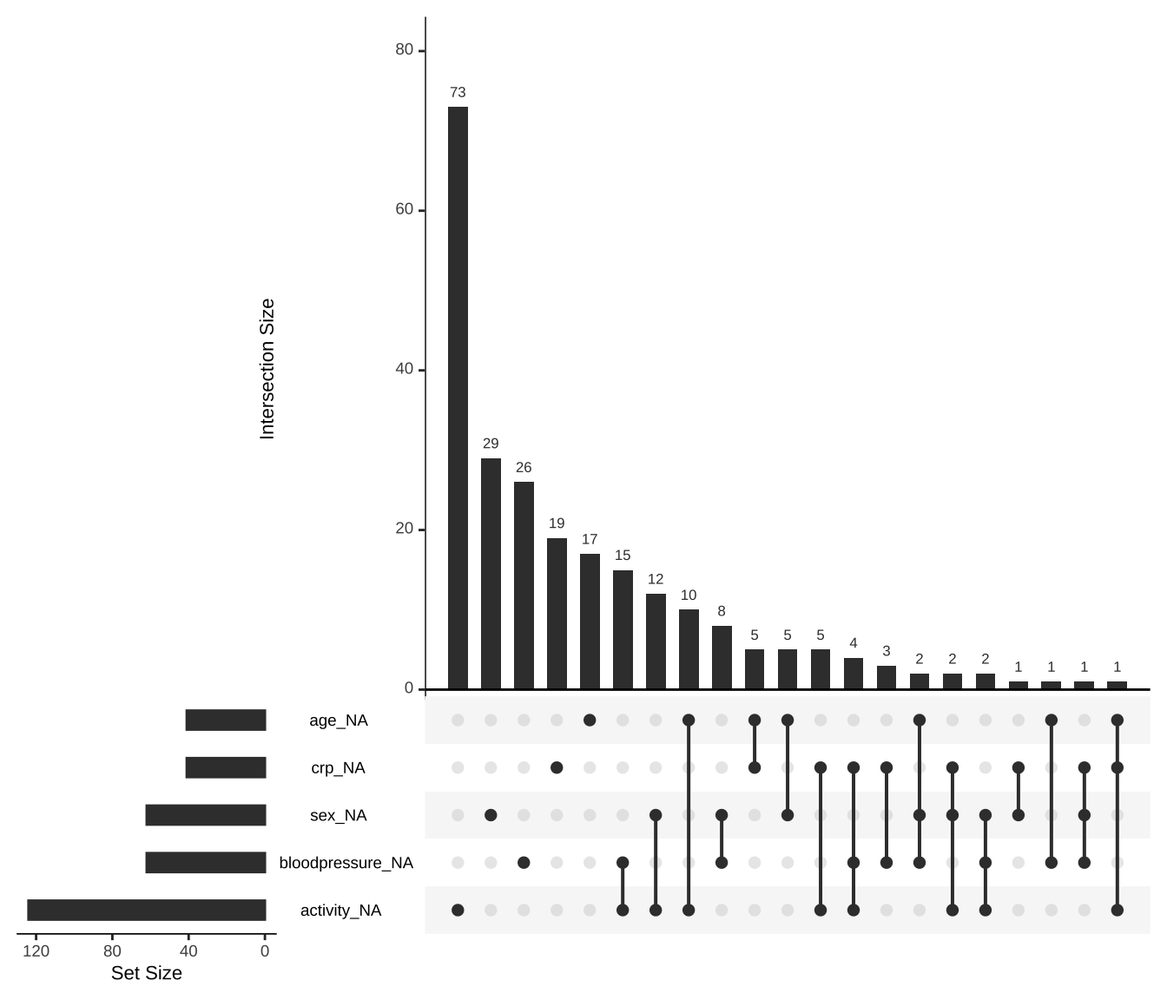
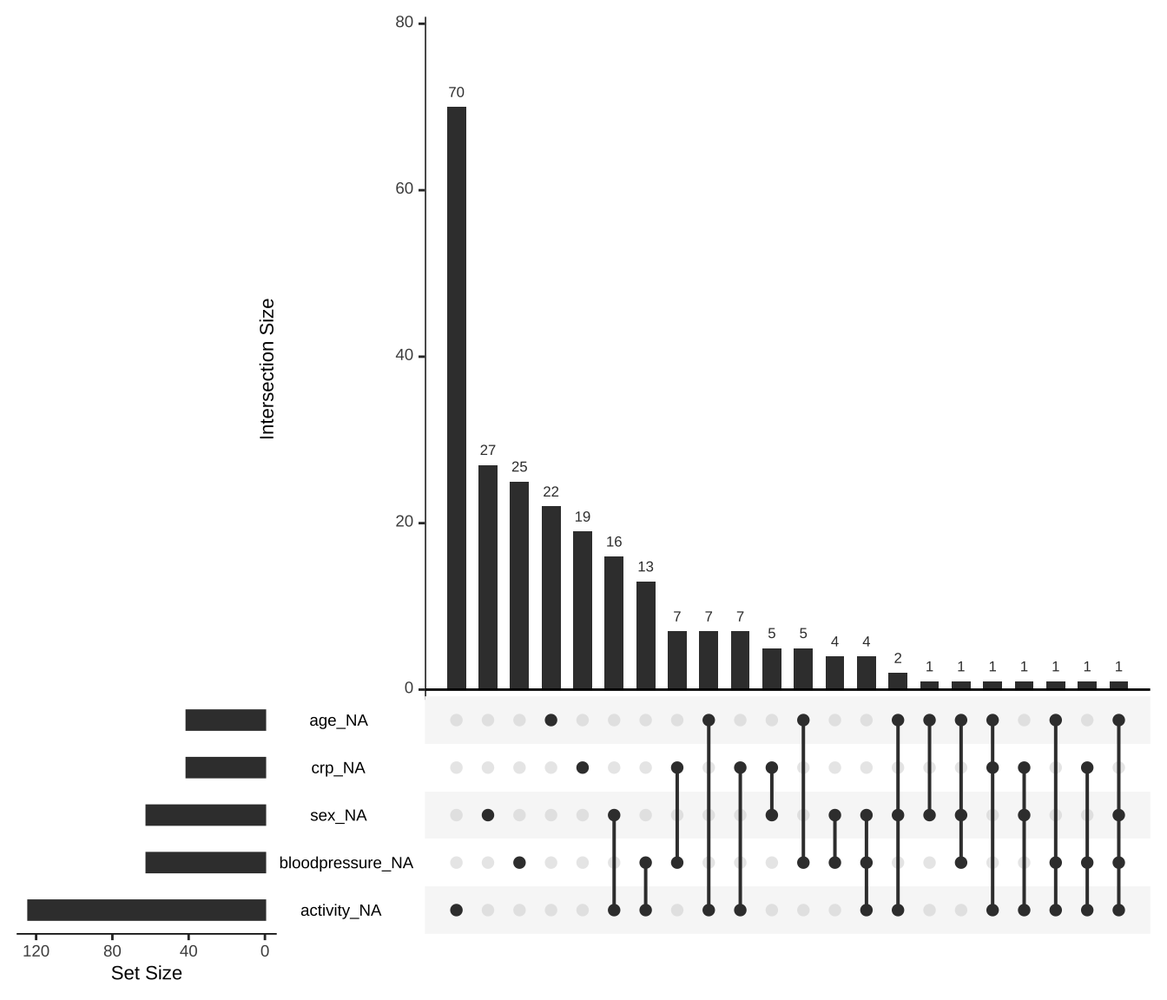
finished mice

diff --git a/docs/stat-modeling-missing.html b/docs/stat-modeling-missing.html
@@ -502,11 +502,11 @@ code span.wa { color: #60a0b0; font-weight: bold; font-style: italic; } /* Warni
   <li>
 <a href="#multivariate-imputation" id="toc-multivariate-imputation" class="nav-link" data-scroll-target="#multivariate-imputation"> <span class="header-section-number">37.7</span> Multivariate Imputation</a>
   <ul class="collapse">
-<li><a href="#imputation-mit-mice" id="toc-imputation-mit-mice" class="nav-link" data-scroll-target="#imputation-mit-mice"> <span class="header-section-number">37.7.1</span> Imputation mit <code>mice</code></a></li>
+<li><a href="#sec-mice" id="toc-sec-mice" class="nav-link" data-scroll-target="#sec-mice"> <span class="header-section-number">37.7.1</span> Imputation mit <code>mice</code></a></li>
+  <li><a href="#sec-missRanger" id="toc-sec-missRanger" class="nav-link" data-scroll-target="#sec-missRanger"> <span class="header-section-number">37.7.2</span> Imputation mit <code>missRanger</code></a></li>
   </ul>
 </li>
-  <li><a href="#imputation-mit-missranger" id="toc-imputation-mit-missranger" class="nav-link" data-scroll-target="#imputation-mit-missranger"> <span class="header-section-number">37.8</span> Imputation mit <code>missRanger</code></a></li>
-  <li><a href="#sensitivit%C3%A4tsanalysen" id="toc-sensitivitätsanalysen" class="nav-link" data-scroll-target="#sensitivit%C3%A4tsanalysen"> <span class="header-section-number">37.9</span> Sensitivitätsanalysen</a></li>
+  <li><a href="#sensitivit%C3%A4tsanalysen" id="toc-sensitivitätsanalysen" class="nav-link" data-scroll-target="#sensitivit%C3%A4tsanalysen"> <span class="header-section-number">37.8</span> Sensitivitätsanalysen</a></li>
   </ul></nav>
     </div>
 <!-- main -->
@@ -526,7 +526,7 @@ code span.wa { color: #60a0b0; font-weight: bold; font-style: italic; } /* Warni
 </header><div class="cell">
 
 </div>
-<p><em>Version vom October 30, 2022 um 18:02:52</em></p>
+<p><em>Version vom October 30, 2022 um 19:13:19</em></p>
 <div class="quarto-figure quarto-figure-center">
 <figure class="figure"><p><img src="images/caution.png" class="img-fluid figure-img" style="width:50.0%"></p>
 </figure>
@@ -556,7 +556,7 @@ code span.wa { color: #60a0b0; font-weight: bold; font-style: italic; } /* Warni
 <div class="cell">
 <div class="sourceCode" id="cb1"><pre class="downlit sourceCode r code-with-copy"><code class="sourceCode R"><span><span class="fu">pacman</span><span class="fu">::</span><span class="fu"><a href="https://rdrr.io/pkg/pacman/man/p_load.html">p_load</a></span><span class="op">(</span><span class="va">tidyverse</span>, <span class="va">magrittr</span>, <span class="va">see</span>, <span class="va">readxl</span>,</span>
 <span>               <span class="va">mice</span>, <span class="va">naniar</span>, <span class="va">missForest</span>, <span class="va">missRanger</span>,</span>
-<span>               <span class="va">dlookr</span><span class="op">)</span></span></code><button title="In die Zwischenablage kopieren" class="code-copy-button"><i class="bi"></i></button></pre></div>
+<span>               <span class="va">dlookr</span>, <span class="va">parameters</span><span class="op">)</span></span></code><button title="In die Zwischenablage kopieren" class="code-copy-button"><i class="bi"></i></button></pre></div>
 </div>
 <p>Am Ende des Kapitels findest du nochmal den gesamten R Code in einem Rutsch zum selber durchführen oder aber kopieren.</p>
 </section><section id="daten" class="level2" data-number="37.4"><h2 data-number="37.4" class="anchored" data-anchor-id="daten">
@@ -712,9 +712,16 @@ code span.wa { color: #60a0b0; font-weight: bold; font-style: italic; } /* Warni
 <p>Wir wir in der Abbildung erkennen können, funktioniert die Methode ganz gut. Wir erhalten aber sehr viel mehr Werte auf die Schwerpunkte der Verteilung. Daher kriegen wir eine sehr viel stärkere bimodale Verteilung heraus als wir vorher hatten. Insbesondere der Modus zeigt hier eine sehr verzerrte Imputation. Ob eine bimodale Verteilung so beim Alter passt ist schwer zu sagen. Bei der Körpergröße wäre es richtiger. Daher ist eine univariate Imputation immer mit Vorsicht zu genießen.</p>
 </section><section id="multivariate-imputation" class="level2" data-number="37.7"><h2 data-number="37.7" class="anchored" data-anchor-id="multivariate-imputation">
 <span class="header-section-number">37.7</span> Multivariate Imputation</h2>
-<section id="imputation-mit-mice" class="level3" data-number="37.7.1"><h3 data-number="37.7.1" class="anchored" data-anchor-id="imputation-mit-mice">
+<p>Im Folgenden schauen wir uns zwei multivariate Verfahren an um fehlende Werte zu imputieren. In beiden Fällen entbindet uns, dass <em>multivariat</em> nicht davon nochmal zu schauen, ob unsere Daten einigermaßen konsistent imputiert wurden. Beide Verfahren haben ihre Vor und Nachteile.</p>
+<ul>
+<li>Zum einen nutzen wir das R Paket <code>mice</code> in <a href="#sec-mice"><span>Kapitel&nbsp;37.7.1</span></a>. Wir müssen in <code>mice</code> für jede Spalte angeben, welcher Verteilung die Spalte folgt bzw. mit welche fortgeschrittenen Methode die Spalte imputiert werden soll. Die Imputation findet dann <span class="math inline">\(m\)</span>-Mal über alle Variablen statt. Danach können wir dann die <span class="math inline">\(m\)</span>-mal imputierten Datensätze weiter benutzen.</li>
+<li>Wir nutzen als Alternative noch das R Paket <code>missRanger()</code> in <a href="#sec-missRanger"><span>Kapitel&nbsp;37.7.2</span></a>. Wir müssen in dem R Paket <code>missRanger</code> nicht angeben welcher Verteilung die Spalten folgen. Daher ist <code>missRanger</code> etwas einfacher zu bedienen, aber auf der anderen Seite auch mehr eine Blackbox. Wir stecken Daten rein und erhalten <em>einen</em> imputierte Daten wieder. Das mag vielleicht auch ein Vorteil sein.</li>
+</ul>
+<p>Beide Verfahren liefern uns dann die imputierten Datensätze wieder und wir müssen dann in den entsprechenden Visualisierungen schauen, ob wir so mit der Imputation zufrieden sind.</p>
+<section id="sec-mice" class="level3" data-number="37.7.1"><h3 data-number="37.7.1" class="anchored" data-anchor-id="sec-mice">
 <span class="header-section-number">37.7.1</span> Imputation mit <code>mice</code>
 </h3>
+<p>Beginnen wir also mit der Imputation unter der Verwendung von dem R Paket <code>mice</code>. Die Funktion, die die Imputation durchführt heist ebenfalls <code>mice()</code> was für <em>Multivariate Imputation by Chained Equations</em> steht. Wir nutzen aber nur die Abkürzung <code>mice()</code>. Bei der Nutzung von <code>mice</code> durchlaufen wir mehrere Schritte. Zuerst müssen wir der Funktion mitteilen, welche Eigenschaften die zu imputierenden Spalten haben. Auch hier gilt, die Hilfeseite von <code>?mice()</code> hilft bei der Entscheidung welche Variante für die jeweilige Spalte in den Daten passt. Wenn wir eine Spalte gar nicht imputieren wollen, dann lassen wir den Eintrag in dem benamten Vektor einfach leer. Im Folgenden der benamte Vektor mit den Variablennamen und wie die einzelnen Variablen dann imputiert werden sollen.</p>
 <div class="cell">
 <div class="sourceCode" id="cb7"><pre class="downlit sourceCode r code-with-copy"><code class="sourceCode R"><span><span class="va">imp_method</span> <span class="op">&lt;-</span> <span class="fu"><a href="https://rdrr.io/r/base/c.html">c</a></span><span class="op">(</span>gender <span class="op">=</span> <span class="st">"logreg"</span>, </span>
 <span>                age <span class="op">=</span> <span class="st">"pmm"</span>, </span>
@@ -722,9 +729,11 @@ code span.wa { color: #60a0b0; font-weight: bold; font-style: italic; } /* Warni
 <span>                semester <span class="op">=</span> <span class="st">"pmm"</span>, </span>
 <span>                count_bears <span class="op">=</span> <span class="st">""</span>, </span>
 <span>                count_color <span class="op">=</span> <span class="st">"polyreg"</span>, </span>
-<span>                most_liked <span class="op">=</span> <span class="st">"polyreg"</span><span class="op">)</span></span>
-<span></span>
-<span><span class="va">imp_gummi_tbl</span> <span class="op">&lt;-</span> <span class="fu">mice</span><span class="op">(</span>data <span class="op">=</span> <span class="va">gummi_tbl</span>, m <span class="op">=</span> <span class="fl">3</span>, maxit <span class="op">=</span> <span class="fl">5</span>, </span>
+<span>                most_liked <span class="op">=</span> <span class="st">"polyreg"</span><span class="op">)</span></span></code><button title="In die Zwischenablage kopieren" class="code-copy-button"><i class="bi"></i></button></pre></div>
+</div>
+<p>Den Vektor <code>imp_method</code> nutzen wir jetzt in der Funktion <code>mice()</code> für die Option <code>method = imp_method</code>. Nun weis <code>mice()</code> wie die Daten für jede Spalte über alle anderen Spalten imputiert werden soll. Wichtig ist noch anzugeben, wie viele <span class="math inline">\(m\)</span> imputierte Datensätze erschaffen werden sollen. Wir nehmen hier mal <span class="math inline">\(m = 5\)</span> und wiederholen den Prozess nur <span class="math inline">\(maxit = 3\)</span> Mal. Je höher <code>maxit</code> ist, desto genauer wird <code>mice()</code> aber desto mehr Iterationen müssen gerechnet werden. Jede Iteration dauert auch so seine Zeit.</p>
+<div class="cell">
+<div class="sourceCode" id="cb8"><pre class="downlit sourceCode r code-with-copy"><code class="sourceCode R"><span><span class="va">imp_gummi_tbl</span> <span class="op">&lt;-</span> <span class="fu">mice</span><span class="op">(</span>data <span class="op">=</span> <span class="va">gummi_tbl</span>, m <span class="op">=</span> <span class="fl">5</span>, maxit <span class="op">=</span> <span class="fl">3</span>, </span>
 <span>                      method <span class="op">=</span> <span class="va">imp_method</span><span class="op">)</span></span></code><button title="In die Zwischenablage kopieren" class="code-copy-button"><i class="bi"></i></button></pre></div>
 <div class="cell-output cell-output-stdout">
 <pre><code>
@@ -732,49 +741,93 @@ code span.wa { color: #60a0b0; font-weight: bold; font-style: italic; } /* Warni
   1   1  gender  age  height  semester  count_color  most_liked
   1   2  gender  age  height  semester  count_color  most_liked
   1   3  gender  age  height  semester  count_color  most_liked
+  1   4  gender  age  height  semester  count_color  most_liked
+  1   5  gender  age  height  semester  count_color  most_liked
   2   1  gender  age  height  semester  count_color  most_liked
   2   2  gender  age  height  semester  count_color  most_liked
   2   3  gender  age  height  semester  count_color  most_liked
+  2   4  gender  age  height  semester  count_color  most_liked
+  2   5  gender  age  height  semester  count_color  most_liked
   3   1  gender  age  height  semester  count_color  most_liked
   3   2  gender  age  height  semester  count_color  most_liked
   3   3  gender  age  height  semester  count_color  most_liked
-  4   1  gender  age  height  semester  count_color  most_liked
-  4   2  gender  age  height  semester  count_color  most_liked
-  4   3  gender  age  height  semester  count_color  most_liked
-  5   1  gender  age  height  semester  count_color  most_liked
-  5   2  gender  age  height  semester  count_color  most_liked
-  5   3  gender  age  height  semester  count_color  most_liked</code></pre>
+  3   4  gender  age  height  semester  count_color  most_liked
+  3   5  gender  age  height  semester  count_color  most_liked</code></pre>
 </div>
 </div>
-<div class="cell">
-<div class="sourceCode" id="cb9"><pre class="downlit sourceCode r code-with-copy"><code class="sourceCode R"><span><span class="fu">complete</span><span class="op">(</span><span class="va">imp_gummi_tbl</span><span class="op">)</span> <span class="op">%&gt;%</span> <span class="fu">vis_miss</span><span class="op">(</span><span class="op">)</span></span></code><button title="In die Zwischenablage kopieren" class="code-copy-button"><i class="bi"></i></button></pre></div>
+<p>Schauen wir jetzt einmal nach, ob auch die Imputation geklappt hat. In <a href="#fig-mice-vismiss">Abbildung&nbsp;<span>37.4</span></a> sehen wir nochmal die Daten visualisiert und sehen, dass es keinen fehlenden Werte mehr gibt. Die Überprüfung ist sinnvoll, da wir manchmal Spalten nicht imputieren wollen und dann müssen wir schauen, ob auch das so geklappt hat.</p>
+<div class="cell" data-layout-align="center">
+<div class="sourceCode" id="cb10"><pre class="downlit sourceCode r code-with-copy"><code class="sourceCode R"><span><span class="fu">complete</span><span class="op">(</span><span class="va">imp_gummi_tbl</span><span class="op">)</span> <span class="op">%&gt;%</span> <span class="fu">vis_miss</span><span class="op">(</span><span class="op">)</span></span></code><button title="In die Zwischenablage kopieren" class="code-copy-button"><i class="bi"></i></button></pre></div>
 <div class="cell-output-display">
-<p><img src="stat-modeling-missing_files/figure-html/unnamed-chunk-11-1.png" class="img-fluid" width="672"></p>
+<div id="fig-mice-vismiss" class="quarto-figure quarto-figure-center anchored">
+<figure class="figure"><p><img src="stat-modeling-missing_files/figure-html/fig-mice-vismiss-1.png" class="img-fluid figure-img" width="480"></p>
+<p></p><figcaption aria-hidden="true" class="figure-caption">Abbildung 37.4— Überprüfung der Imputation mit <code>mice()</code>. Wie erhofft gibt es keine fehlenden Werte mehr in den Daten.</figcaption><p></p>
+</figure>
 </div>
 </div>
-<div class="cell">
-<div class="sourceCode" id="cb10"><pre class="downlit sourceCode r code-with-copy"><code class="sourceCode R"><span><span class="va">imp_all_gummi_tbl</span> <span class="op">&lt;-</span> <span class="va">imp_gummi_tbl</span> <span class="op">%&gt;%</span> </span>
-<span>  <span class="fu">complete</span><span class="op">(</span><span class="st">"long"</span>, include <span class="op">=</span> <span class="cn">TRUE</span><span class="op">)</span> <span class="op">%&gt;%</span> </span>
-<span>  <span class="fu">select</span><span class="op">(</span><span class="op">-</span><span class="va">.id</span>, imp_run <span class="op">=</span> <span class="va">.imp</span><span class="op">)</span> </span></code><button title="In die Zwischenablage kopieren" class="code-copy-button"><i class="bi"></i></button></pre></div>
 </div>
-<div class="cell">
+<p>Nachdem wir mit der Imputation durch sind können wir uns für die kontinuierlichen Variablen einmal die ursprüngliche Verteilung der Daten <em>mit</em> den fehlenden Weren im vergleich zu den <span class="math inline">\(m=5\)</span> imputierten Verteilungen anschauen. Die Funktion <code>densityplot()</code> erlaubt hier eine einfache und schnelle Darstellung in <a href="#fig-mice-dens">Abbildung&nbsp;<span>37.5</span></a>. Wir sehen, dass die Imputation nicht immer sehr gut geklappt hat, aber dadurch das wir die Imputation fünfmal gemacht haben, mittelt sich der Effekt einer einzelen Imputation wieder raus.</p>
+<div class="cell" data-layout-align="center">
 <div class="sourceCode" id="cb11"><pre class="downlit sourceCode r code-with-copy"><code class="sourceCode R"><span><span class="fu">densityplot</span><span class="op">(</span><span class="va">imp_gummi_tbl</span><span class="op">)</span></span></code><button title="In die Zwischenablage kopieren" class="code-copy-button"><i class="bi"></i></button></pre></div>
 <div class="cell-output-display">
-<p><img src="stat-modeling-missing_files/figure-html/unnamed-chunk-13-1.png" class="img-fluid" width="672"></p>
+<div id="fig-mice-dens" class="quarto-figure quarto-figure-center anchored">
+<figure class="figure"><p><img src="stat-modeling-missing_files/figure-html/fig-mice-dens-1.png" class="img-fluid figure-img" width="864"></p>
+<p></p><figcaption aria-hidden="true" class="figure-caption">Abbildung 37.5— Densityplot der Verteilungen der ursprünglichen kontinuierlichen Daten im Vergleich zu den <span class="math inline">\(m=5\)</span> imputierten Datensätzen.</figcaption><p></p>
+</figure>
 </div>
 </div>
+</div>
+<p>Leider wird es jetzt etwas schwerer mit den imputierten Daten zu arbeiten. Wir müssen ja jetzt die fünf imputierten Datensätze irgendwie analysieren. Die Analyse der fünf Datensätze wird getrennt gemacht und dann mit der Funktion <code>pool()</code> die Effektschätzer und <span class="math inline">\(p\)</span>-Werte aller fünf Datensätze kombiniert. Ein weiteres leider ist, dass wir nicht für jedes Modell in R eine <code>pool</code> Funktion haben. Somit haben wir im Zweifel hier ein Problem, wenn es darum geht die Datensätze weiter zuverwenden. Die meisten <code><a href="https://rdrr.io/r/stats/glm.html">glm()</a></code>-Regressionen können aber so genutzt werden.</p>
 <div class="cell">
 <div class="sourceCode" id="cb12"><pre class="downlit sourceCode r code-with-copy"><code class="sourceCode R"><span><span class="va">pooled_res</span> <span class="op">&lt;-</span> <span class="va">imp_gummi_tbl</span> <span class="op">%&gt;%</span></span>
 <span>  <span class="fu">mice</span><span class="fu">::</span><span class="fu"><a href="https://tidyr.tidyverse.org/reference/complete.html">complete</a></span><span class="op">(</span><span class="st">"all"</span><span class="op">)</span> <span class="op">%&gt;%</span></span>
 <span>  <span class="fu">map</span><span class="op">(</span><span class="va">lm</span>, formula <span class="op">=</span> <span class="va">height</span> <span class="op">~</span> <span class="va">age</span> <span class="op">+</span> <span class="va">semester</span> <span class="op">+</span> <span class="va">gender</span><span class="op">)</span> <span class="op">%&gt;%</span></span>
 <span>  <span class="fu">pool</span><span class="op">(</span><span class="op">)</span></span></code><button title="In die Zwischenablage kopieren" class="code-copy-button"><i class="bi"></i></button></pre></div>
 </div>
-<p>Was macht <code>pool</code>?</p>
-</section></section><section id="imputation-mit-missranger" class="level2" data-number="37.8"><h2 data-number="37.8" class="anchored" data-anchor-id="imputation-mit-missranger">
-<span class="header-section-number">37.8</span> Imputation mit <code>missRanger</code>
-</h2>
+<p>Wir nutzen dann die Funktion <code>model_parameters()</code> um uns die Ausgabe des Poolings besser anzeigen zu lassen. Wir sehen, dass sich das Ergebnis nicht sonderlich von den Ergbenissen einer normalen linearen Regression unterscheidet. Wir könnten dann mit dem gepoolten Modell auch weiter in einen Gruppenvergleich oder eine ANOVA gehen. Sobald wir durch ein Modell und der <code>pool()</code> Funktion ein Objekt haben, können wir mit dem Objekt weiterarbeiten.</p>
 <div class="cell">
-<div class="sourceCode" id="cb13"><pre class="downlit sourceCode r code-with-copy"><code class="sourceCode R"><span><span class="va">gummi_imputet</span> <span class="op">&lt;-</span> <span class="fu">missRanger</span><span class="op">(</span></span>
+<div class="sourceCode" id="cb13"><pre class="downlit sourceCode r code-with-copy"><code class="sourceCode R"><span><span class="va">pooled_res</span> <span class="op">%&gt;%</span> <span class="fu">model_parameters</span><span class="op">(</span><span class="op">)</span></span></code><button title="In die Zwischenablage kopieren" class="code-copy-button"><i class="bi"></i></button></pre></div>
+<div class="cell-output cell-output-stdout">
+<pre><code># Fixed Effects
+
+Parameter   | Coefficient |   SE |           95% CI | Statistic |     df |      p
+---------------------------------------------------------------------------------
+(Intercept) |      184.14 | 1.47 | [181.25, 187.02] |    125.34 | 403.23 | &lt; .001
+age         |       -0.01 | 0.06 | [ -0.12,   0.10] |     -0.19 | 411.15 | 0.851 
+semester    |       -0.19 | 0.14 | [ -0.45,   0.08] |     -1.37 | 240.74 | 0.171 
+genderw     |      -14.78 | 0.75 | [-16.25, -13.31] |    -19.84 | 247.75 | &lt; .001</code></pre>
+</div>
+</div>
+<p>Leider ist es so, dass wir nicht immer mit <code>pool()</code> arbeiten können, da wir für unsere Funktion, die wir nutzen wollen keine Anwendung in <code>pool()</code> finden. Salopp gesagt, wir erhalten einen Fehler, wenn wir das Modell oder die Funktion poolen wollen. In diesem Fall hilft die Funktion <code>complete()</code> mit der Option <code>action = "long"</code> und <code>include = TRUE</code> etwas weiter. Wir erhlaten damit die fünf imputierten Datensätze und den ursprünglichen Datensatz als Long-Format wiedergegeben. Damit können wir dann weiterarbeiten. Das ist aber dann das Thema für ein anderes Kapitel.</p>
+<div class="cell">
+<div class="sourceCode" id="cb15"><pre class="downlit sourceCode r code-with-copy"><code class="sourceCode R"><span><span class="va">imp_all_gummi_tbl</span> <span class="op">&lt;-</span> <span class="va">imp_gummi_tbl</span> <span class="op">%&gt;%</span> </span>
+<span>  <span class="fu">complete</span><span class="op">(</span>action <span class="op">=</span> <span class="st">"long"</span>, include <span class="op">=</span> <span class="cn">TRUE</span><span class="op">)</span> <span class="op">%&gt;%</span> </span>
+<span>  <span class="fu">select</span><span class="op">(</span><span class="op">-</span><span class="va">.id</span>, imp_run <span class="op">=</span> <span class="va">.imp</span><span class="op">)</span> </span>
+<span></span>
+<span><span class="va">imp_all_gummi_tbl</span></span></code><button title="In die Zwischenablage kopieren" class="code-copy-button"><i class="bi"></i></button></pre></div>
+<div class="cell-output cell-output-stdout">
+<pre><code>   imp_run gender age height semester count_bears count_color most_liked
+1        0      m  35    193       10           9           3   lightred
+2        0      w  21    159        6          10           5     yellow
+3        0      w  21    159        6           9           6      white
+4        0      w  36    180       10          10           5      white
+5        0      m  22    180        3          10           6      white
+6        0      m  NA     NA       NA          10           5      white
+7        0      m  22    180        3          10           5      green
+8        0      w  21    163        3          13           5      green
+9        0      m  22    170        3           9           5      green
+10       0      m  23    176        3           9           5      white
+11       0      m  20    180        3          10           5   lightred
+12       0      m  21    169        3          12           5      white
+ [ reached 'max' / getOption("max.print") -- omitted 2556 rows ]</code></pre>
+</div>
+</div>
+<p>Die Spalte <code>imp_run</code> gibt uns dann die Imputation <span class="math inline">\(m\)</span> wieder. Die <span class="math inline">\(0\)</span>-te Imputation sind dabei die Orginaldaten. Wie du schon sehen kannst, wird das alles sehr schnell sehr groß und wir müssen hier mit fortgeschrittner Programmierung ran, wenn die Funktion <code>pool()</code> nicht will.</p>
+</section><section id="sec-missRanger" class="level3" data-number="37.7.2"><h3 data-number="37.7.2" class="anchored" data-anchor-id="sec-missRanger">
+<span class="header-section-number">37.7.2</span> Imputation mit <code>missRanger</code>
+</h3>
+<div class="cell">
+<div class="sourceCode" id="cb17"><pre class="downlit sourceCode r code-with-copy"><code class="sourceCode R"><span><span class="va">gummi_imputet</span> <span class="op">&lt;-</span> <span class="fu">missRanger</span><span class="op">(</span></span>
 <span>  <span class="va">gummi_tbl</span>, </span>
 <span>  formula <span class="op">=</span> <span class="va">.</span> <span class="op">~</span> <span class="va">.</span> ,</span>
 <span>  num.trees <span class="op">=</span> <span class="fl">1000</span>, </span>
@@ -791,9 +844,9 @@ code span.wa { color: #60a0b0; font-weight: bold; font-style: italic; } /* Warni
 <pre><code>Warning: Removed 27 rows containing missing values (geom_point).</code></pre>
 </div>
 <div class="cell-output-display">
-<p><img src="stat-modeling-missing_files/figure-html/unnamed-chunk-15-1.png" class="img-fluid" width="672"></p>
+<p><img src="stat-modeling-missing_files/figure-html/unnamed-chunk-17-1.png" class="img-fluid" width="672"></p>
 </div>
-<div class="sourceCode" id="cb15"><pre class="downlit sourceCode r code-with-copy"><code class="sourceCode R"><span><span class="co"># caterogical imputation</span></span>
+<div class="sourceCode" id="cb19"><pre class="downlit sourceCode r code-with-copy"><code class="sourceCode R"><span><span class="co"># caterogical imputation</span></span>
 <span><span class="fu">ggplot</span><span class="op">(</span><span class="op">)</span><span class="op">+</span></span>
 <span>  <span class="fu">geom_bar</span><span class="op">(</span>data <span class="op">=</span> <span class="va">gummi_tbl</span>, <span class="fu">aes</span><span class="op">(</span><span class="va">gender</span><span class="op">)</span>, width <span class="op">=</span> <span class="fl">0.3</span><span class="op">)</span><span class="op">+</span></span>
 <span>  <span class="fu">geom_bar</span><span class="op">(</span>data <span class="op">=</span> <span class="va">gummi_imputet</span>, <span class="fu">aes</span><span class="op">(</span><span class="va">gender</span><span class="op">)</span>, fill <span class="op">=</span> <span class="st">"red"</span>,</span>
@@ -801,20 +854,20 @@ code span.wa { color: #60a0b0; font-weight: bold; font-style: italic; } /* Warni
 <span>  </span>
 <span>  <span class="fu">theme_minimal</span><span class="op">(</span><span class="op">)</span></span></code><button title="In die Zwischenablage kopieren" class="code-copy-button"><i class="bi"></i></button></pre></div>
 <div class="cell-output-display">
-<p><img src="stat-modeling-missing_files/figure-html/unnamed-chunk-15-2.png" class="img-fluid" width="672"></p>
+<p><img src="stat-modeling-missing_files/figure-html/unnamed-chunk-17-2.png" class="img-fluid" width="672"></p>
 </div>
 </div>
 <p>Wir können auch nur Teile der Daten imputieren. Wenn wir nur die Spalten <code>age</code> und <code>semester</code> imputieren wollen, dann würden wir <code>age + semester ~ .</code> schreiben. Damit würden wir die beiden Spalten Alter und Semester dann durch die Informationen in all den anderen Spalten imputieren. Wir können die beiden Spalten auch nur durch spezifische andere Spalten imputieren lassen. Im folgenden Beispiel imputieren wir die Spalten <code>age</code> und <code>semester</code> durch die Informationen in den Spalten <code>height</code> und <code>gender</code>. Es dürfen natürlich auch gleiche Spalten auf beiden Seiten der Formel stehen.</p>
 <div class="cell">
-<div class="sourceCode" id="cb16"><pre class="downlit sourceCode r code-with-copy"><code class="sourceCode R"><span><span class="va">gummi_imputet</span> <span class="op">&lt;-</span> <span class="fu">missRanger</span><span class="op">(</span></span>
+<div class="sourceCode" id="cb20"><pre class="downlit sourceCode r code-with-copy"><code class="sourceCode R"><span><span class="va">gummi_imputet</span> <span class="op">&lt;-</span> <span class="fu">missRanger</span><span class="op">(</span></span>
 <span>  <span class="va">gummi_tbl</span>, </span>
 <span>  formula <span class="op">=</span> <span class="va">age</span> <span class="op">+</span> <span class="va">semester</span> <span class="op">~</span> <span class="va">height</span> <span class="op">+</span> <span class="va">gender</span> ,</span>
 <span>  num.trees <span class="op">=</span> <span class="fl">1000</span>, </span>
 <span>  verbose <span class="op">=</span> <span class="fl">0</span>,  </span>
 <span>  returnOOB <span class="op">=</span> <span class="cn">TRUE</span><span class="op">)</span></span></code><button title="In die Zwischenablage kopieren" class="code-copy-button"><i class="bi"></i></button></pre></div>
 </div>
-</section><section id="sensitivitätsanalysen" class="level2" data-number="37.9"><h2 data-number="37.9" class="anchored" data-anchor-id="sensitivitätsanalysen">
-<span class="header-section-number">37.9</span> Sensitivitätsanalysen</h2>
+</section></section><section id="sensitivitätsanalysen" class="level2" data-number="37.8"><h2 data-number="37.8" class="anchored" data-anchor-id="sensitivitätsanalysen">
+<span class="header-section-number">37.8</span> Sensitivitätsanalysen</h2>
 <div class="quarto-figure quarto-figure-center">
 <figure class="figure"><p><img src="images/caution.png" class="img-fluid figure-img" style="width:50.0%"></p>
 </figure>
